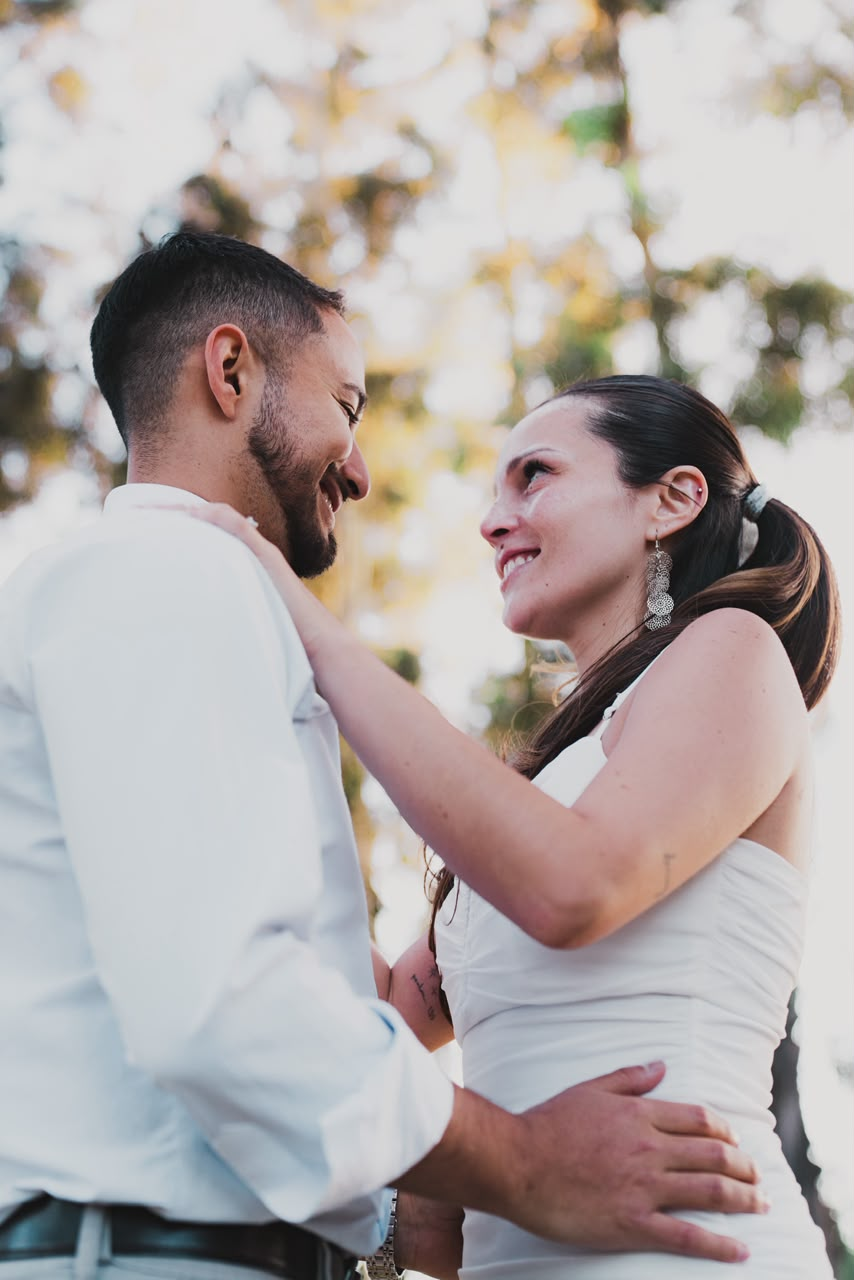
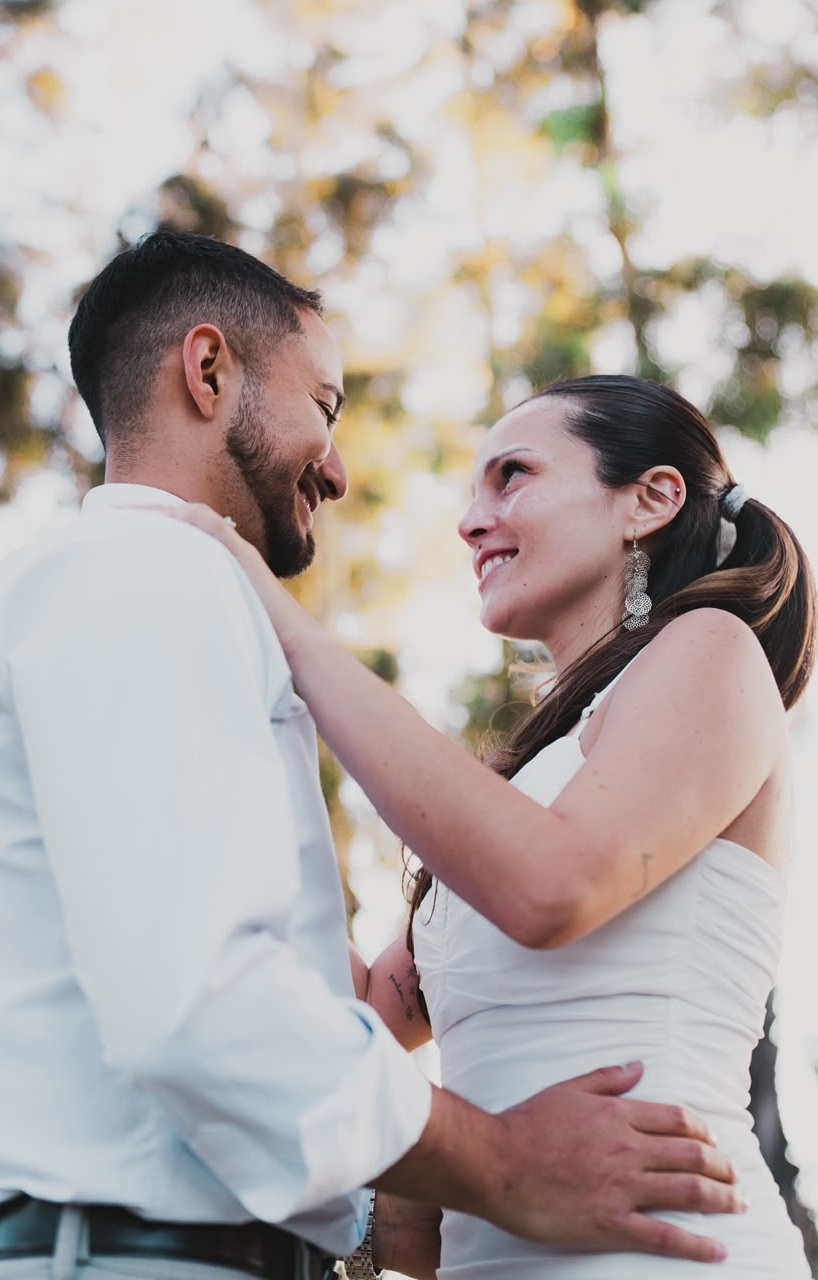
actualizar galeria

diff --git a/script.js b/script.js
@@ -422,7 +422,6 @@ function initRSVPForm() {
   const lactoseField = document.getElementById("lactoseField");
   const dietaryInput = document.getElementById("dietary");
   const dietField = document.getElementById("dietField");
-  const messageInput = document.getElementById("message");
   const successBox = document.getElementById("rsvpSuccess");
   const successTitle = document.getElementById("rsvpSuccessTitle");
   const successText = document.getElementById("rsvpSuccessText");
@@ -498,8 +497,7 @@ function initRSVPForm() {
       fullName: fullNameInput.value.trim(),
       attendance: attendanceInput.value,
       lactoseIntolerant: attendanceInput.value === "yes" ? lactoseInput.value : null,
-      dietary: dietaryInput.value.trim(),
-      message: messageInput.value.trim()
+      dietary: dietaryInput.value.trim()
     };
 
     submitBtn.disabled = true;

diff --git a/index.html b/index.html
@@ -239,11 +239,6 @@
             <input type="text" id="dietary" name="dietary" placeholder="Ej. vegetariano, alergias, etc." />
           </div>
 
-          <div class="field">
-            <label for="message">Mensaje para los novios</label>
-            <textarea id="message" name="message" rows="3" placeholder="Escríbenos unas palabras (opcional)"></textarea>
-          </div>
-
           <button type="submit" class="btn btn--primary rsvp-submit" id="rsvpSubmitBtn">
             Confirmar
           </button>

diff --git a/styles.css b/styles.css
@@ -935,7 +935,7 @@ textarea:focus-visible {
 
 .gallery__slide img {
   width: 100%;
-  height: auto;
+  height: 40rem;
   display: block;
   aspect-ratio: 1 / 1;
   object-fit: cover;
